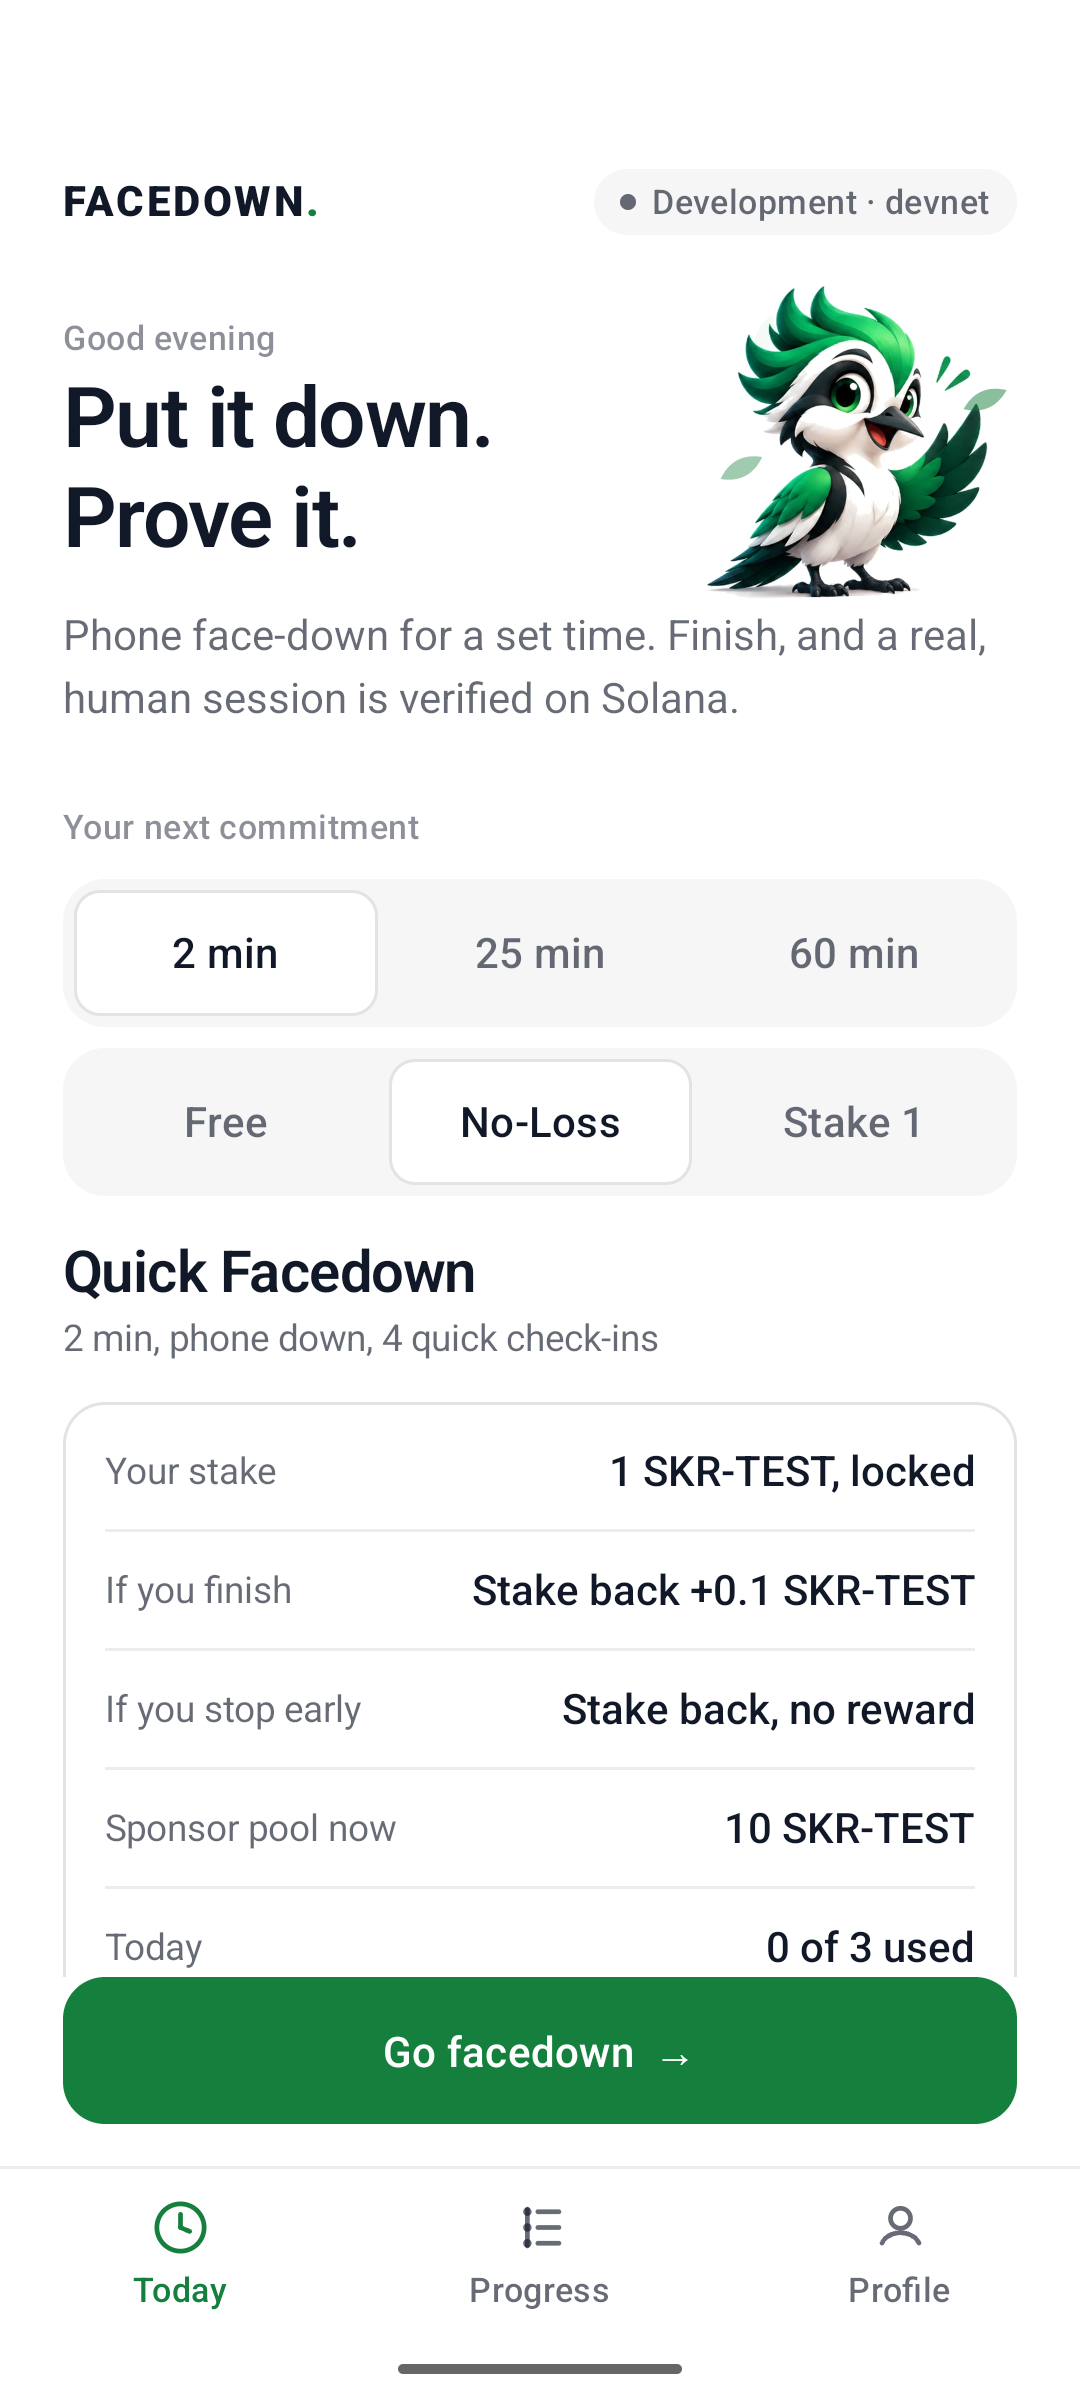
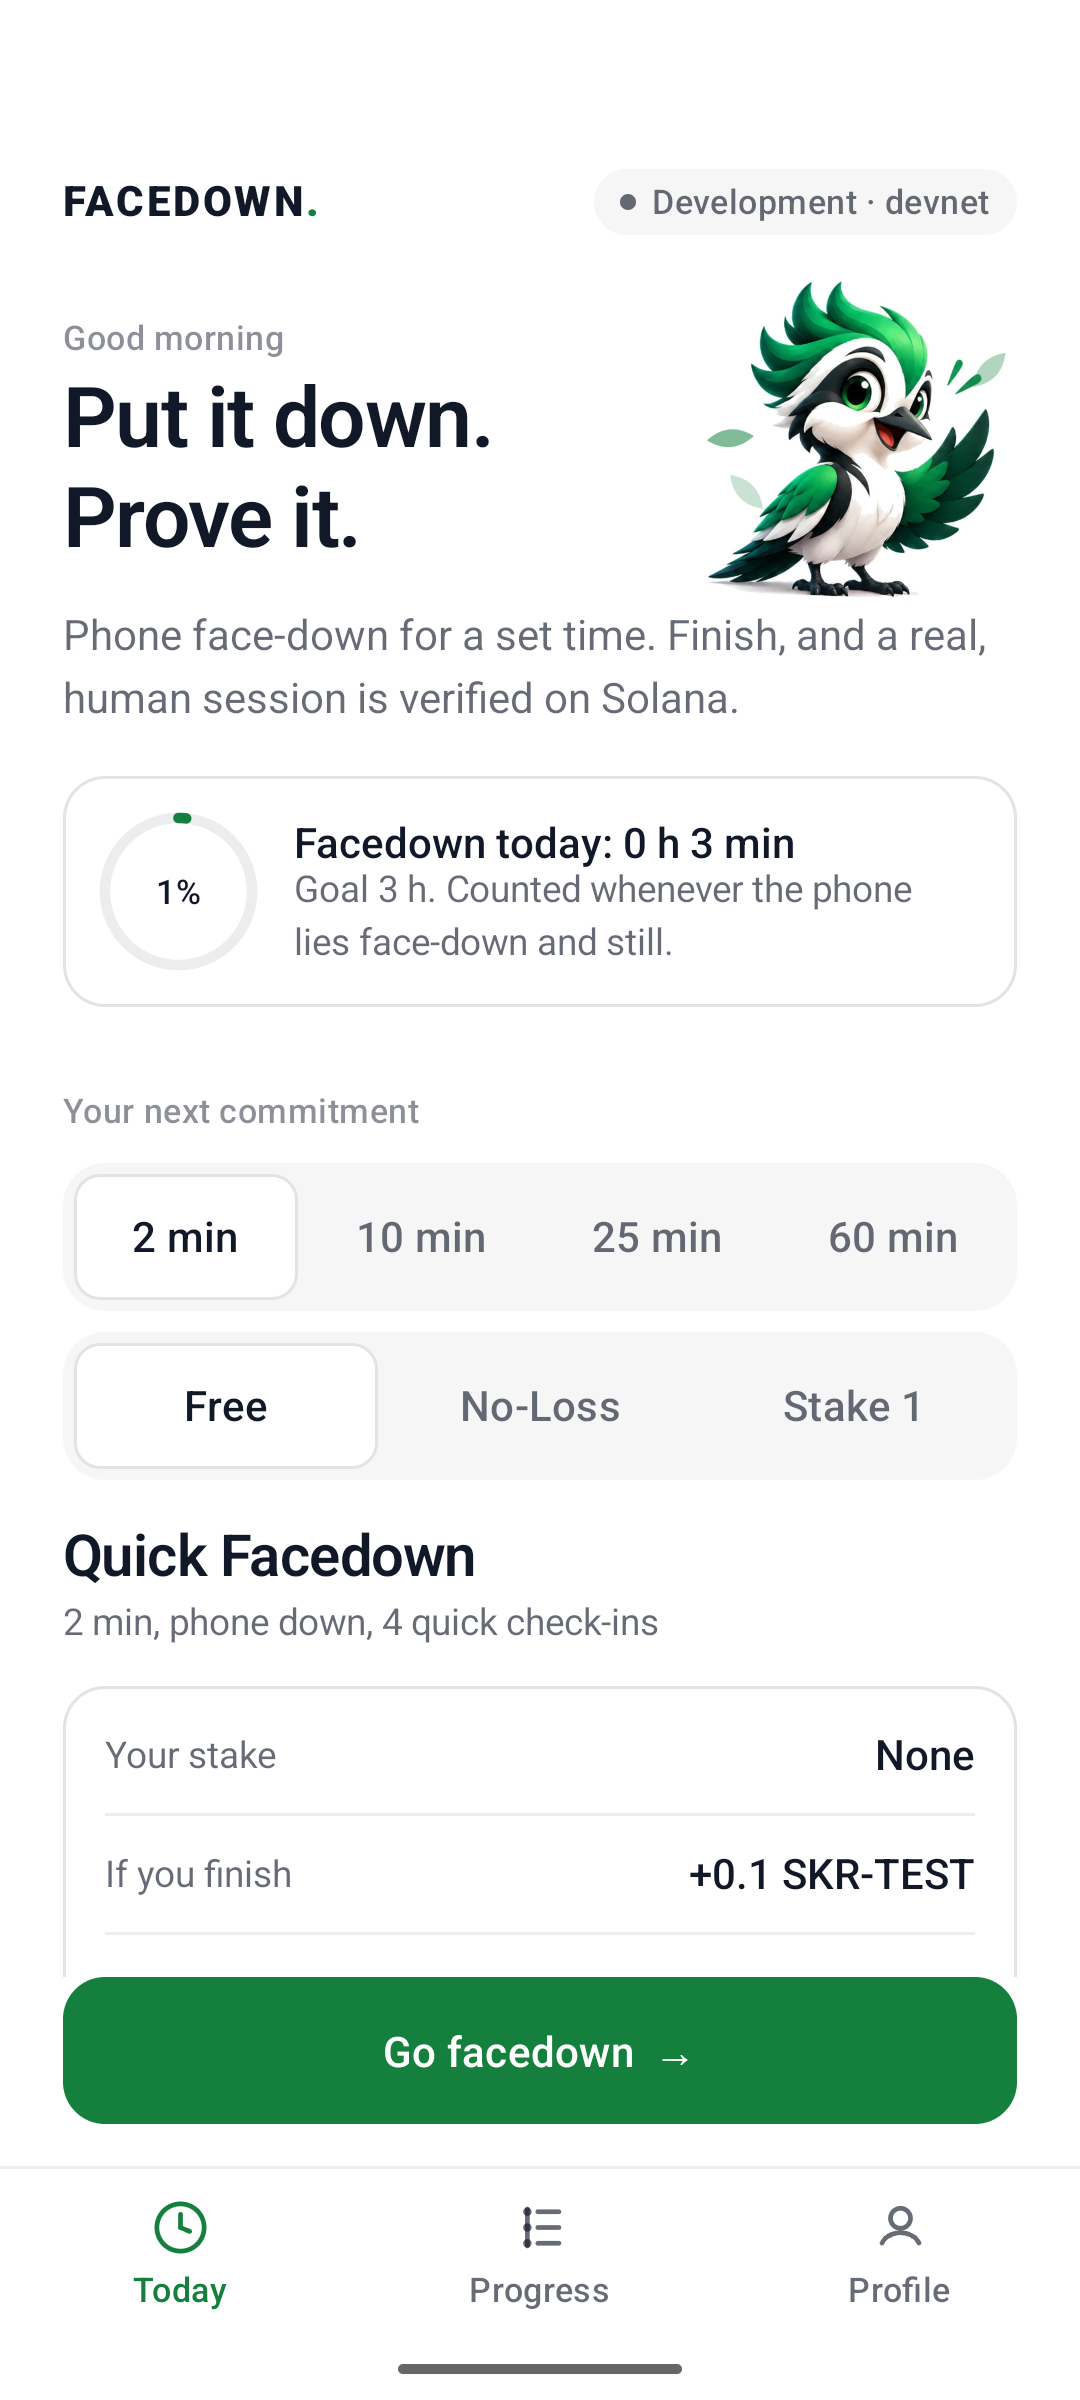
docs: README for Urge Catcher, Presence Minutes, Cool-down Lock, squads, calibration; new screenshots

diff --git a/README.md b/README.md
@@ -2,30 +2,39 @@
 
 **Put it down. Prove it. Get paid.**
 
+> FACEDOWN turns every urge to pick up your phone into proof that you didn't. Friends keep you honest, your SKR keeps
+> you committed, and your presence becomes a record no bot can fake.
+
 Seeker is the only phone that can prove you were present: a hardware-bound identity (Seeker Genesis Token), a
 wallet in the OS, and sensors that can tell a person from a script. FACEDOWN uses that to make phone-free time
 something you can commit to, verify and get paid for, with no referee.
 
-1. **Book it.** Pick a daily time (the phone reminds you) and a length: 2 min, 25 min, or a **Facedown Hour** (60 min).
-2. **Choose what's at stake.** **Free** (a sponsor pays a small reward), **No-Loss** (lock SKR; you get it back
-   either way, only finishers earn) or **Stake** (finish for stake + up to 20% from the pool; quit and it feeds the pool).
-3. **Turn the phone face-down.** The screen goes black. It buzzes a few times at unpredictable moments; **knock on
-   the back** to answer. No pickup, no lit screen. The accelerometer proves the phone lay face-down and still, and
-   that each answer was a physical knock, not input injected by a script or an AI agent.
-4. **Finish.** The session is attested on Solana and paid in the same transaction. A streak builds; a **streak
-   freeze** (paid in SKR, half burned on-chain) covers a missed day. Today shows how many people are facedown right now.
+1. **All day: Presence Minutes.** Whenever the phone lies face-down and still, a ring on Today fills toward a
+   3-hour daily goal, without opening the app (opt-in, low assurance: no money).
+2. **The urge: Urge Catcher.** Open Instagram, YouTube or X and FACEDOWN pauses first: *go facedown 10 min instead?*
+   That turns the urge into a verified, sponsor-paid session; *Open anyway* works after 10 seconds.
+3. **Book a session.** A daily time (the phone reminds you) and a length: 2, 10, 25 min or a **Facedown Hour**.
+   Choose **Free** (a sponsor pays), **No-Loss** (lock SKR, get it back either way, only finishers earn) or
+   **Stake** (finish for stake + up to 20% from sponsors; **quit and it's locked for 7 days**, then 14, then 30, not lost).
+4. **Turn the phone face-down.** The screen goes black. It buzzes a few times at unpredictable moments; **knock on
+   the back** to answer (calibrated to your phone and table; one missed knock is forgiven). The accelerometer proves
+   the phone lay face-down and still and that each answer was a physical knock, not input injected by a script or an AI agent.
+5. **Finish.** The session is attested on Solana and paid in the same transaction. Your **squad** (3–8 friends) shares
+   one streak that breaks for everyone if anyone misses a day; a **streak freeze** (SKR, half burned on-chain) covers
+   one missed day. Today shows how many people are facedown right now.
 
 <p>
-<img src="screenshots/home.png" width="19%" alt="Today: 2/25/60 min, Free | No-Loss | Stake">
-<img src="screenshots/mission.png" width="19%" alt="Confirm: No-Loss terms before any wallet prompt">
-<img src="screenshots/facedown.png" width="19%" alt="Face-down: the screen goes black while the session runs">
-<img src="screenshots/receipt.png" width="19%" alt="Receipt: human touch and phone-down verified, recorded on Solana">
-<img src="screenshots/progress.png" width="19%" alt="Progress: streak freeze bought, half burned">
+<img src="screenshots/home.png" width="16%" alt="Today: Presence Minutes ring, 2/10/25/60 min, Free | No-Loss | Stake">
+<img src="screenshots/urge.png" width="16%" alt="Urge Catcher: go facedown 10 min instead of opening the app">
+<img src="screenshots/mission.png" width="16%" alt="Confirm: No-Loss terms before any wallet prompt">
+<img src="screenshots/facedown.png" width="16%" alt="Face-down: the screen goes black while the session runs">
+<img src="screenshots/receipt.png" width="16%" alt="Receipt: human touch and phone-down verified, recorded on Solana">
+<img src="screenshots/progress.png" width="16%" alt="Progress: squad streak and members, streak freezes">
 </p>
 
 *Screenshots: Android emulator against **devnet** with Solana Mobile's test wallet, **development mode** (Seeker
 eligibility bypassed and labeled). Face-down and knocks were driven through the emulator's virtual accelerometer.
-Rewards are SKR-TEST, a valueless test mint with SKR's 6 decimals.*
+The Urge Catcher screenshot uses Chrome as the watched app. Rewards are SKR-TEST, a valueless test mint with SKR's 6 decimals.*
 
 ## Why this, why now
 
@@ -44,6 +53,7 @@ on-chain process record. That's an anti-farming primitive, and Seeker is the pho
 | Finding | What FACEDOWN does |
 |---|---|
 | Deposit programs were accepted by **13.7%** of people vs **90%** for reward programs; among people who'd accept either, deposits worked better (+13.2 pts). Halpern et al., [NEJM 2015](https://doi.org/10.1056/NEJMoa1414293), n = 2,538 | **Free first, No-Loss next, Stake for the committed.** |
+| A brief pause before opening an app made people open it less often (the "one sec" self-nudge app). Grüning, Riedel & Lorenz-Spreen, [PNAS 2023](https://doi.org/10.1073/pnas.2213114120) | **Urge Catcher**: the pause, plus a 10-minute facedown session instead. |
 | Appointments **more than doubled** uptake vs financial commitment devices, and most commitment-device takers lost their money. Derksen et al., [arXiv 2110.06876](https://arxiv.org/abs/2110.06876) | **Daily facedown appointment** with a reminder; No-Loss so nobody has to lose money to commit. |
 | People who **chose their own** phone-reduction goal cut use by **26 min/day more** (73% larger) than people assigned one. Sachdeva, Somasundaram & Sharma (IIM Udaipur, ISB), [Soc Sci Med 2026](https://doi.org/10.1016/j.socscimed.2026.119683) | You choose the length and what's at stake. |
 | Two weeks without mobile internet improved sustained attention and mental health; **91%** improved on at least one outcome. Castelo et al., [PNAS Nexus 2025](https://doi.org/10.1093/pnasnexus/pgaf017) | Long stretches matter, so there is a **Facedown Hour**, not just a pomodoro. |
@@ -71,13 +81,14 @@ flowchart LR
     U -- face-down session, knock check-ins --> A[ATTEST engine]
     A -- verified: one tx --> C[(Solana)]
     C -- attestation + stake back + reward --> U
-    Q[Quitter] -. Stake mode: forfeited .-> P
+    Q[Quitter] -. Stake: locked 7/14/30 days, then returned .-> U
     Q -. No-Loss: refunded .-> U
     U -- streak freeze, 2 SKR --> F{{half burned, half revenue}}
 ```
 
-- **Stake** (opt-in): finishers get stake + up to 20% from the pool, capped by what the pool holds. If most people
-  finish, the pool runs low and the bonus shrinks; we show the live pool so nobody is promised a bonus that isn't there.
+- **Stake** (opt-in): finishers get stake + up to 20% from **sponsor** pools, capped by what the pool holds (shown
+  live). **Quitting locks the stake** for 7 days, 14 for a second quit within 30 days, then 30, and then it comes back.
+  Loss aversion without a gamble: nobody else ever wins your stake.
 - **No-Loss** (default for money): the stake is locked and returned either way (refund on failure; abandoned sessions
   are refunded after they expire). Finishing earns the sponsor reward and keeps the streak. Nobody loses principal.
 - **Streak freeze** (a sink): 2 SKR, **half burned on-chain** (`BurnChecked`), half protocol revenue.
@@ -134,7 +145,11 @@ Docs: [architecture](docs/architecture.md) · [trust model](docs/trust-model.md)
   runs on mainnet only, and per-mission reward mints need a settlement change.
 - **Presence Model.** Replace the hand-tuned knock/stillness thresholds with a small on-device classifier trained on
   real session traces (opt-in). Not built: we don't have the data yet, and a model without data would be theatre.
-- **Live Rooms.** Friends, a college or a company facedown together. Today there is one global live count.
+- **Share a receipt as a Solana Blink** so anyone can join your squad or challenge you from X.
+- **Presence Passport.** A monthly soulbound badge for verified presence and a score other apps read through
+  `verifyPresence()` (e.g. quests and airdrops weighted by proof of a real human).
+- **Urge Forecast.** Suggest Facedown Hours from the phone's own usage stats (the hours you lose most).
+- **Pledge mode.** Quitting sends the stake to a cause you pick instead of locking it (needs legal review).
 - **Guardian quorum.** Several attestors staking SKR instead of one operator ([trust-model.md](docs/trust-model.md)).
 
 ## Honest limitations
@@ -142,14 +157,18 @@ Docs: [architecture](docs/architecture.md) · [trust model](docs/trust-model.md)
 - **Face-down was verified on the emulator, not yet on a real phone.** Knocks and face-down came from the
   emulator's virtual accelerometer. The earlier face-up build ran end to end on a real realme phone with Solflare on
   devnet (table above). Seeker Genesis Token verification is implemented and unit-tested but not run on a Seeker.
-- **Thresholds are uncalibrated.** On a real phone, injected taps still read 20–90 mm/s² of noise (one 734 outlier);
-  the human-touch threshold is 150 and knocks register above 350. They need tuning with real knocks on several phones.
+- **Knock thresholds need real data.** Each user calibrates their own knock (half their median, never below
+  0.2 m/s²); the server's human-touch floor is 150 mm/s². On a real phone, injected taps still read 20–90 mm/s² of noise
+  (one 734 outlier). A measured table across surfaces and phones is still to do.
 - **This phone, not you.** It proves *this* device lay face-down with a person answering. It can't stop you using a
   second phone. In No-Loss you only cheat yourself; in sponsored pools the Genesis Token caps it to one device.
 - **Signals, not proof.** A modified app could fabricate the motion numbers; only hardware attestation (P4) closes that.
-- **Indian law.** Paying finishers out of quitters' stakes (Stake mode) may count as an "online money game" under
-  India's 2025 online gaming law. Free and No-Loss pay only from sponsors and never take principal. Stake mode needs
-  legal review before a public launch in India.
+- **Indian law.** Rewards come only from sponsors and nobody's stake is ever paid to someone else (No-Loss refunds,
+  Stake locks then returns), which is designed to stay outside "online money game" under India's 2025 online gaming
+  law. That's our reading, not legal advice; it needs review before a public launch.
+- **Presence Minutes and Urge Catcher were verified on the emulator only.** The emulator stops sensor delivery
+  with its screen off, so screen-off sampling on real phones still needs checking. Urge Catcher is an accessibility
+  service: allowed on the Solana dApp Store, restricted on Google Play.
 - **Single operator.** One attestor key and one ATTEST server.
 - **Test tokens only.** Devnet and localnet use SKR-TEST and a dev-only faucet, which the server refuses on mainnet.
 
@@ -170,10 +189,10 @@ On the emulator, `adb emu sensor set acceleration 0:0:-9.81` turns the phone fac
 ## Tests
 
 ```bash
-cd backend && uv run pytest -q                 # 43 tests: protocol, replay, policy, physical evidence, stakes, No-Loss, freezes, pools
+cd backend && uv run pytest -q                 # 46 tests: protocol, replay, policy, physical evidence, N-1, stakes, No-Loss, cool-down, freezes, squads
 scripts/e2e_localnet.sh                        # real chain: deposit, stake round trip, forged stake refused, payout, SDK
 anchor test --validator legacy                 # program: attestor auth, day range, claim index, streak, double settlement
-./gradlew :app:testDebugUnitTest               # evidence chain = Python golden vectors; knock / face-down / stillness detector
+./gradlew :app:testDebugUnitTest               # evidence chain = Python golden vectors; knock / calibration / face-down detector; Presence Minutes
 python3 scripts/device_e2e.py <adb-serial> happy free leave   # drives the real app + wallet on a device/emulator
 ATTEST_ENFORCE_PHYSICAL=true scripts/dev_stack.sh   # then `device_e2e.py emulator-5554 free`: injected taps are rejected
 ```
